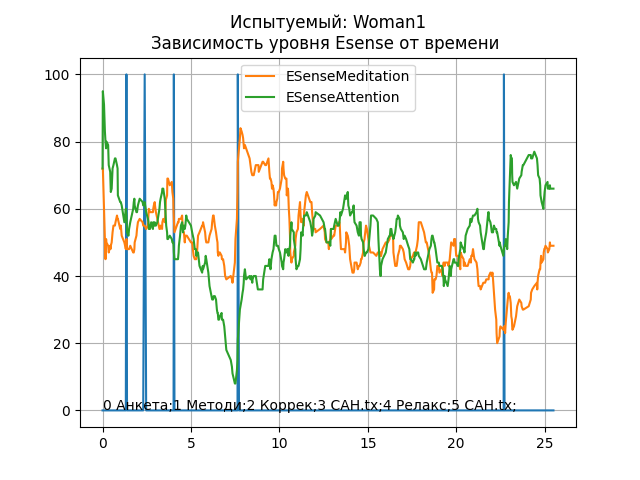
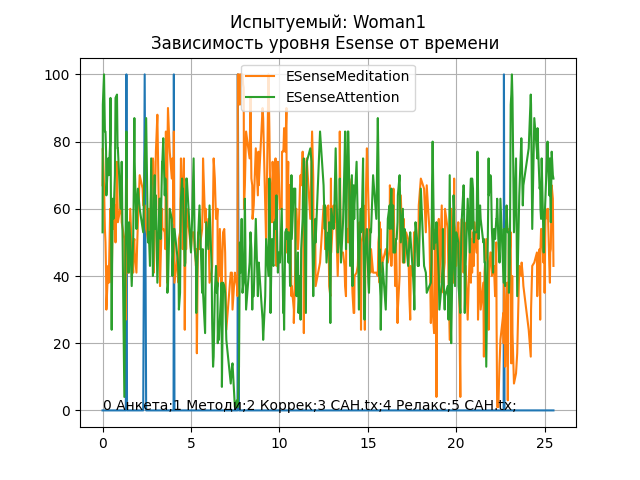
Добавил рассчет СКО для каждой зоны.

Changed region(s): [[0.1562, 0.1562, 0.875, 0.8438]]

diff --git a/Experiment.py b/Experiment.py
@@ -98,8 +98,10 @@ class Experiment:
             testSubjectAttention['ParseTime'][i] = onlyTimeString
 
 
-        self.listOfMeditation = self.__KnnRegressionApprox(pristineMeditation, self.knn)
-        self.listOfConcentration = self.__KnnRegressionApprox(pristineAttention, self.knn)
+        # self.listOfMeditation = self.__KnnRegressionApprox(pristineMeditation, self.knn)
+        # self.listOfConcentration = self.__KnnRegressionApprox(pristineAttention, self.knn)
+        self.listOfMeditation = pristineMeditation
+        self.listOfConcentration = pristineAttention
         
         pristinePacketContext = testSubjectMeditation['PacketContext']
 
@@ -147,6 +149,7 @@ class Experiment:
             (secondCenterMoments[0]/len(self.listOfMeditation))**0.5,
             (secondCenterMoments[1]/len(self.listOfConcentration))**0.5
             )
+
         self.contextZonesStandartDeviation = []
 
         # Пересчёт времени из абс в относит
@@ -265,6 +268,23 @@ class Experiment:
             self.contextZonesMean.append((np.mean(meditationCut),np.mean(attentionCut)))
             self.contextZonesMax.append((np.max(meditationCut),np.max(attentionCut)))
             self.contextZonesMin.append((np.min(meditationCut),np.min(attentionCut)))
+            
+            secondCenterMoments = [0,0]
+            for j in range(beginOfZone,endOfZone):
+                meditationSecondCenterMoment = (self.listOfMeditation[j] - self.contextZonesMean[i][0])**2
+                attentionSecondCenterMoment = (self.listOfConcentration[j] - self.contextZonesMean[i][1])**2
+
+                secondCenterMoments[0] += meditationSecondCenterMoment
+                secondCenterMoments[1] += attentionSecondCenterMoment
+
+            self.contextZonesStandartDeviation.append(
+                (
+                    (secondCenterMoments[0]/ (endOfZone - beginOfZone))**0.5,
+                    (secondCenterMoments[1]/ (endOfZone - beginOfZone))**0.5
+                )
+            )
+            
+                    
 
         print(self.contextZonesMean)
 
